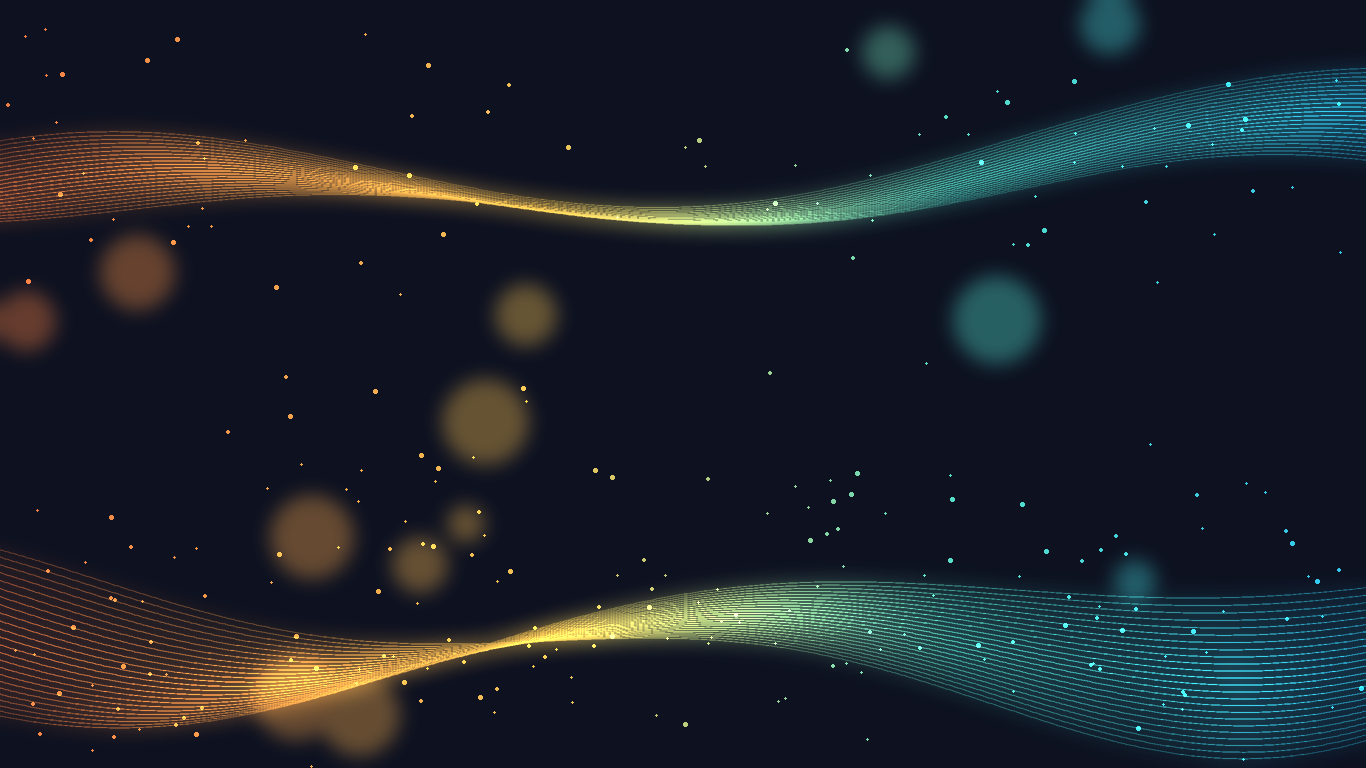
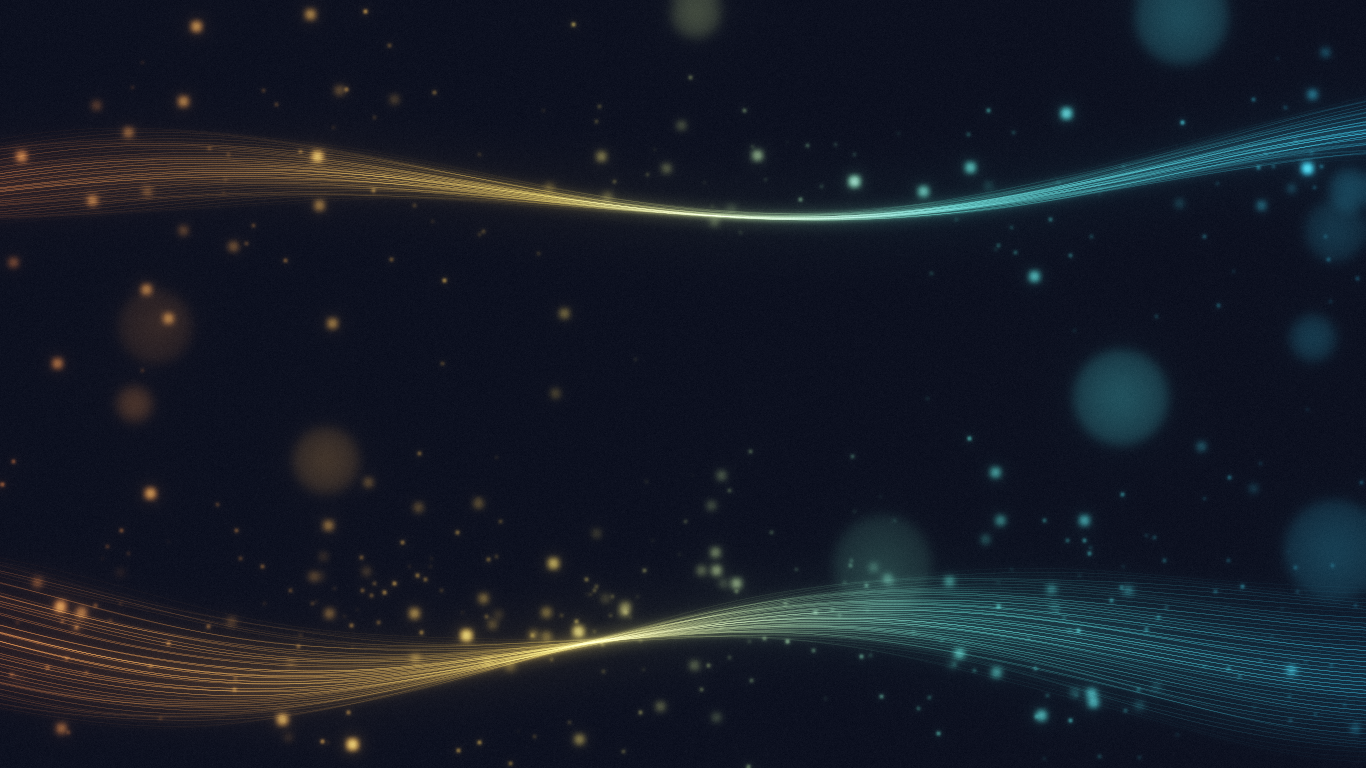
Fundalul cu unde, mai natural: fire netezite, lumina difuza
Firele se deseneaza cu antialiere si se aduna ca lumina, cu
luminozitate proprie; bloom pe trei raze, particule de marimi diferite,
unele defocalizate; sigla mai stinsa, cu halou. Mihai: „arata putin
cam sintetic".

Claude-Session: https://claude.ai/code/session_01FH9EWRqHSv6gDppBdbXmmu

diff --git a/cercetare/fundal-unde/genereaza.py b/cercetare/fundal-unde/genereaza.py
@@ -12,7 +12,7 @@ Totul e determinist (generator cu samanta fixa). Cere numpy si Pillow.
 """
 import os
 import numpy as np
-from PIL import Image, ImageDraw, ImageFilter, ImageFont
+from PIL import Image, ImageDraw, ImageFont
 
 AICI = os.path.dirname(os.path.abspath(__file__))
 RADACINA = os.path.dirname(os.path.dirname(AICI))
@@ -23,52 +23,94 @@ ACCENT = (255, 181, 71)
 OPRIRI = [(0, (255, 120, 40)), (0.4, (255, 200, 60)), (0.7, (80, 230, 190)), (1, (40, 200, 230))]
 
 
-def culoare(t):
+def culori(t):
+    """Culoarea undelor pe orizontala, 0..1 (portocaliu -> turcoaz)."""
+    t = np.clip(t, 0, 1)
+    out = np.zeros(t.shape + (3,), np.float32)
     for (a, ca), (b, cb) in zip(OPRIRI, OPRIRI[1:]):
-        if t <= b:
-            u = (t - a) / (b - a)
-            return tuple(int(ca[i] + (cb[i] - ca[i]) * u) for i in range(3))
-    return OPRIRI[-1][1]
+        m = (t >= a) & (t <= b)
+        u = ((t - a) / (b - a))[m][:, None]
+        out[m] = np.array(ca) * (1 - u) + np.array(cb) * u
+    return out / 255
 
 
-def panglica(W, H, cy, amp, faza, n, inversa=False, ss=2):
-    """O panglica de `n` fire subtiri, culoarea dupa x (portocaliu -> turcoaz)."""
-    L = Image.new('RGB', (W * ss, H * ss))
-    d = ImageDraw.Draw(L)
-    xs = np.linspace(-20, W + 20, 500)
+def _cutie(a, r, ax):
+    if r < 1:
+        return a
+    pad = [(0, 0)] * a.ndim
+    pad[ax] = (r + 1, r)
+    c = np.cumsum(np.pad(a, pad, mode='edge'), axis=ax, dtype=np.float64)
+    n = a.shape[ax]
+    return ((np.take(c, np.arange(2 * r + 1, 2 * r + 1 + n), axis=ax) - np.take(c, np.arange(n), axis=ax)) / (2 * r + 1)).astype(np.float32)
+
+
+def estompa(a, sigma):
+    """Aproape gaussiana: trei treceri de medie pe fereastra, pe x si pe y."""
+    r = max(1, int(round(sigma * 0.93)))
+    for _ in range(3):
+        a = _cutie(_cutie(a, r, 0), r, 1)
+    return a
+
+
+def panglica(W, H, cy, amp, faza, n, samanta, ss=3):
+    """Intensitatea unei panglici de `n` fire, desenate cu antialiere (puncte
+    dese impartite biliniar pe o grila de ss x ss ori mai fina), fiecare fir
+    cu luminozitatea lui, mai tare in miez si variind de-a lungul lui."""
+    r = np.random.default_rng(samanta)
+    k_h = H / 768
+    acc = np.zeros((H * ss, W * ss), np.float32)
+    xs = np.arange(-40 * ss, (W + 40) * ss, 0.7) / ss
     for k in range(n):
         u = k / (n - 1) - 0.5
-        y = (cy + amp * np.sin(xs / (260 + u * 60) + faza + u * 1.6) * np.cos(xs / 530 + faza * 0.5)
-             + u * 150 * np.sin(xs / 380 + faza + 1.3) * np.sin(xs / 900 + faza))
-        pts = list(zip(xs * ss, y * ss))
-        for i in range(len(pts) - 1):
-            t = min(max(xs[i] / W, 0), 1)
-            c = culoare(1 - t if inversa else t)
-            f = 0.35 + 0.65 * (1 - abs(u) * 1.6)
-            d.line([pts[i], pts[i + 1]], fill=tuple(int(v * f) for v in c), width=ss)
-    return np.asarray(L.resize((W, H), Image.LANCZOS), np.float32)
+        y = (cy + amp * np.sin(xs / (300 + u * 80) + faza + u * 1.4 + r.normal(0, 0.04)) * np.cos(xs / 610 + faza * 0.5)
+             + u * 170 * k_h * np.sin(xs / 430 + faza + 1.3) * np.sin(xs / 1000 + faza)
+             + 3 * np.sin(xs / 57 + k) * u)
+        b = max(1 - abs(u) * 1.7, 0.08) ** 1.5 * r.uniform(0.5, 1.0)
+        b = b * (0.55 + 0.45 * np.sin(xs / r.uniform(150, 400) + r.uniform(0, 6)) ** 2)
+        X, Y = xs * ss, y * ss
+        x0, y0 = np.floor(X).astype(int), np.floor(Y).astype(int)
+        fx, fy = X - x0, Y - y0
+        for dx, dy, w in ((0, 0, (1 - fx) * (1 - fy)), (1, 0, fx * (1 - fy)), (0, 1, (1 - fx) * fy), (1, 1, fx * fy)):
+            xi, yi = x0 + dx, y0 + dy
+            ok = (xi >= 0) & (xi < W * ss) & (yi >= 0) & (yi < H * ss)
+            np.add.at(acc, (yi[ok], xi[ok]), (w * b)[ok] * 0.7)
+    return acc.reshape(H, ss, W, ss).mean(axis=(1, 3))
 
 
-def strat_unde(W, H, sus, jos, samanta=11):
-    """Lumina undelor, particulelor si petelor, pe negru (se aduna peste fundal)."""
+def strat_unde(W, H, sus, jos, samanta=5):
+    """Lumina undelor, particulelor si petelor (0..1, dupa o curba moale care
+    nu arde albul), de adunat peste fundal."""
     rng = np.random.default_rng(samanta)
-    acc = panglica(W, H, jos, 90, 0.3, 24) + 0.8 * panglica(W, H, sus, 70, 2.4, 22)
-    halou = np.asarray(Image.fromarray(np.clip(acc, 0, 255).astype(np.uint8)).filter(ImageFilter.GaussianBlur(10)), np.float32)
-    acc = acc + 1.4 * halou
-    P = Image.new('RGB', (W, H))
-    d = ImageDraw.Draw(P)
-    for _ in range(int(260 * W * H / (1366 * 768))):
+    k_h = H / 768
+    c = culori(np.arange(W) / W)[None]
+    lum = (panglica(W, H, jos, 85 * k_h, 0.3, 44, 1)[..., None] * 2.3
+           + panglica(W, H, sus, 65 * k_h, 2.4, 36, 2)[..., None] * 1.8) * c
+    # particule: cele mai multe pe langa unde, marimi variate, o parte defocalizate
+    P = np.zeros((H, W, 3), np.float32)
+    Pb = np.zeros((H, W, 3), np.float32)
+    for _ in range(int(420 * W * H / (1366 * 768))):
         x = rng.uniform(0, W)
-        y = rng.normal(jos, 90) if rng.random() < .7 else rng.normal(sus, 70)
-        r = rng.choice([1, 1, 1.5, 2])
-        d.ellipse([x - r, y - r, x + r, y + r], fill=culoare(x / W))
-    B = Image.new('RGB', (W, H))
-    d = ImageDraw.Draw(B)
-    for _ in range(14):
-        x, y, r = rng.uniform(0, W), rng.uniform(0, H), rng.uniform(15, 45)
-        d.ellipse([x - r, y - r, x + r, y + r], fill=tuple(int(v * .35) for v in culoare(x / W)))
-    acc += 0.9 * np.asarray(P, np.float32) + np.asarray(B.filter(ImageFilter.GaussianBlur(9)), np.float32)
-    return acc
+        if rng.random() < .6:
+            y = rng.normal(jos, 70 * k_h)
+        elif rng.random() < .6:
+            y = rng.normal(sus, 60 * k_h)
+        else:
+            y = rng.uniform(0, H)
+        xi, yi = int(x), int(y)
+        if not (0 <= xi < W and 0 <= yi < H):
+            continue
+        cul = culori(np.array([x / W]))[0] * rng.uniform(0.3, 1.0) ** 2
+        (Pb if rng.random() < 0.25 else P)[yi, xi] += cul * rng.uniform(0.6, 2.5)
+    lum += estompa(P, 0.7) * 4 + estompa(Pb, 3) * 40
+    # pete de lumina: discuri moi, cu marginea putin mai luminoasa
+    yy, xx = np.mgrid[0:H, 0:W]
+    for _ in range(11):
+        x, y, r = rng.uniform(0, W), rng.uniform(0, H), rng.uniform(18, 55) * k_h
+        d = np.hypot(xx - x, yy - y) / r
+        disc = (np.clip(1 - d, 0, 1) ** 0.3 * (1 + 0.25 * np.exp(-((d - 0.9) / 0.08) ** 2)) * (d < 1)).astype(np.float32)
+        lum += estompa(disc, 4)[..., None] * culori(np.array([x / W]))[0] * rng.uniform(0.06, 0.14)
+    lum = lum + sum(w * estompa(lum, s) for s, w in ((2, 0.6), (8, 0.5), (30, 0.35)))
+    return 1 - np.exp(-lum * 1.1)
 
 
 def masti_sigla(W, H, cx, cy, marime):
@@ -93,7 +135,7 @@ def masti_sigla(W, H, cx, cy, marime):
 
 def compune(tema, W, H, sus, jos, cx, cy, marime, putere_unde, putere_sigla, margine=0):
     baza = np.ones((H, W, 3), np.float32) * np.array(FUNDAL[tema], np.float32)
-    lumina = strat_unde(W, H, sus, jos) * putere_unde
+    lumina = strat_unde(W, H, sus, jos) * 255 * putere_unde
     if margine:  # marginile se topesc in fundal: fara cusatura cand fereastra e mai mare
         xx = np.arange(W, dtype=np.float32)
         yy = np.arange(H, dtype=np.float32)
@@ -102,11 +144,15 @@ def compune(tema, W, H, sus, jos, cx, cy, marime, putere_unde, putere_sigla, mar
         lumina *= (fy[:, None] * fx[None, :])[..., None]
     if tema == 'intunecat':
         img = baza + lumina
+        img += np.random.default_rng(9).normal(0, 2.0, (H, W, 1)).astype(np.float32) * (1 if not margine else 0)
     else:  # pe alb, undele se pun ca cerneala, nu ca lumina
         a = np.clip(lumina.max(axis=2, keepdims=True) / 255, 0, 1)
         img = baza * (1 - a) + lumina / np.maximum(lumina.max(axis=2, keepdims=True), 1) * 200 * a
     if putere_sigla:
         m, g_culoare = masti_sigla(W, H, cx, cy, marime)
+        if tema == 'intunecat':  # un halou moale, ca sigla sa stea in lumina undelor
+            halou = estompa(np.maximum(m['g'], m['motion']), marime * 0.25)
+            img = img + halou * np.array([150, 170, 210], np.float32) * 0.35 * putere_sigla
         for masca, c in ((m['g'], g_culoare), (m['punct'], np.array(ACCENT, np.float32)),
                          (m['motion'], np.array(TEXT[tema], np.float32))):
             a = masca * putere_sigla
@@ -129,7 +175,8 @@ def main():
     W, H = 1920, 900
     for tema in FUNDAL:
         img = compune(tema, W, H, H / 2 - 160, H / 2 + 175, W / 2 - 240, H / 2 + 5, 84,
-                      0.45 if tema == 'intunecat' else 0.55, 0.35, margine=160)
+                      0.45 if tema == 'intunecat' else 0.55,
+                      0.22 if tema == 'intunecat' else 0.16, margine=160)
         Image.fromarray(img).save(os.path.join(RADACINA, f'rust/fereastra/imagini/fundal-{tema}.png'), optimize=True)
 
 

diff --git a/JURNAL.md b/JURNAL.md
@@ -2608,7 +2608,7 @@ sa nu blocheze vizual, zona de sus (antet, stari, filtre) neutra si delimitata.
 
 **Decizia.** Fundalul listei si al editorului e o imagine fixa, generata o
 data de `cercetare/fundal-unde/genereaza.py` (determinist) la 1920x900, cate
-una pe tema, **stinsa** (undele la ~45-55%, sigla la 35%), opaca si amestecata
+una pe tema, **stinsa** (undele la ~45-55%, sigla la 16-22%), opaca si amestecata
 deja cu culoarea de fundal a temei. Se deseneaza la marimea ei, centrata si
 taiata (`image-fit: preserve`), deci fara scalare si fara amestec la cadru —
 mai ieftin decat harta (scalata `pixelated`). Marginile se topesc in fundal:
@@ -2633,3 +2633,11 @@ compilata in spatiul de lucru (capturile), deci nu aduce cod nou in arbore.
 deseneaza, apare sigla, apoi se stinge spre aplicatie) — proba in
 `cercetare/fundal-unde/pornire.gif` si cadrul plin `pornire-1366x768.png`.
 Mihai il pune intr-o alta sesiune; aici nu s-a facut nimic din el.
+
+**A doua trecere, aceeasi zi.** „Arata putin cam sintetic": firele erau
+linii PIL suprapuse (zimti, moire), particulele puncte egale, petele discuri
+plate. Acum firele se deseneaza cu antialiere (puncte dese pe o grila de 3x3
+ori mai fina) si se aduna ca lumina, cu luminozitate proprie pe fir si de-a
+lungul lui; lumina difuza (bloom) pe trei raze si o curba moale in loc de
+taiere; particule de marimi diferite, o parte defocalizate; sigla mai stinsa,
+cu un halou slab. Generatorul nu mai cere decat numpy si Pillow.
